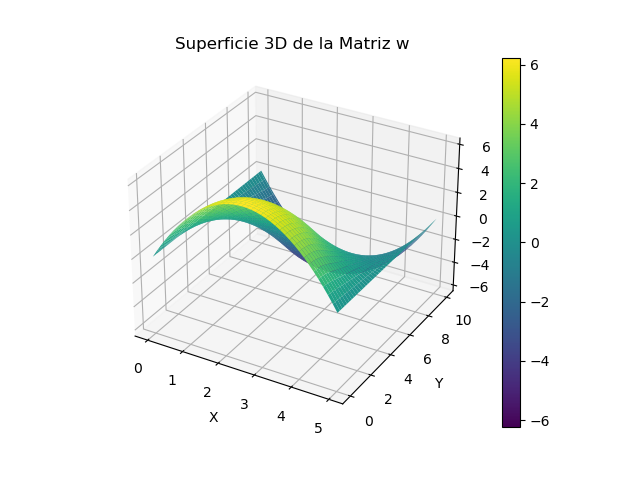
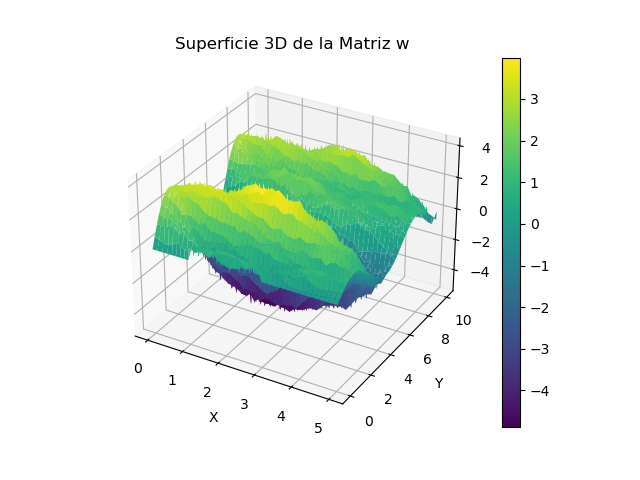
mas

diff --git a/ondas.py b/ondas.py
@@ -8,18 +8,28 @@ N = int(input('Ingresar valor de N: '))
 M = int(input('Ingresar valor de M: '))
 b = float(input('Ingresar valor de b: '))
 d = float(input('Ingresar valor de d: '))
-v = float(input('velocidad: '))
-
-# Cálculo de pasos
 h = b / N
 k = d / M
+vel_max = h/k
+print('Velocidad máxima: ', vel_max)
+v = float(input('velocidad: '))
 
 # Inicialización de la matriz w con dimensiones correctas
 w = np.zeros((N+1, M+1))  # +1 para incluir los bordes
 
 # Función f(i, j) como fuente
+'''Cuando tenemos una fuente en varias partes
 def f(x):
-    return x*(b-x)
+    if x < b/2:
+        return x
+    else:
+        return b-x'''
+
+def f(x):
+    if 1<x<3:
+        return 1
+    else:
+        return 0
 
 # Función g(i) para la condición inicial
 def g(x):
@@ -31,9 +41,12 @@ for i in range(N):
    
 
 for j in range(M):
-    w[0][j] =  0  #Frontera izquierda, recordar que t_i = jk
+    w[0][j] =0 #Frontera izquierda, recordar que t_i = jk
     w[N][j] = 0  # Frontera derecha
-
+''' Para que la onda no sea estacionaria 
+    w[0][j] = 3*np.sin(k*j) #Frontera izquierda, recordar que t_i = jk
+    w[N][j] = np.sin(k*j)  # Frontera derecha
+'''
 # Iteraciones para la solución
 for j in range(1, M):
     for i in range(1, N):
